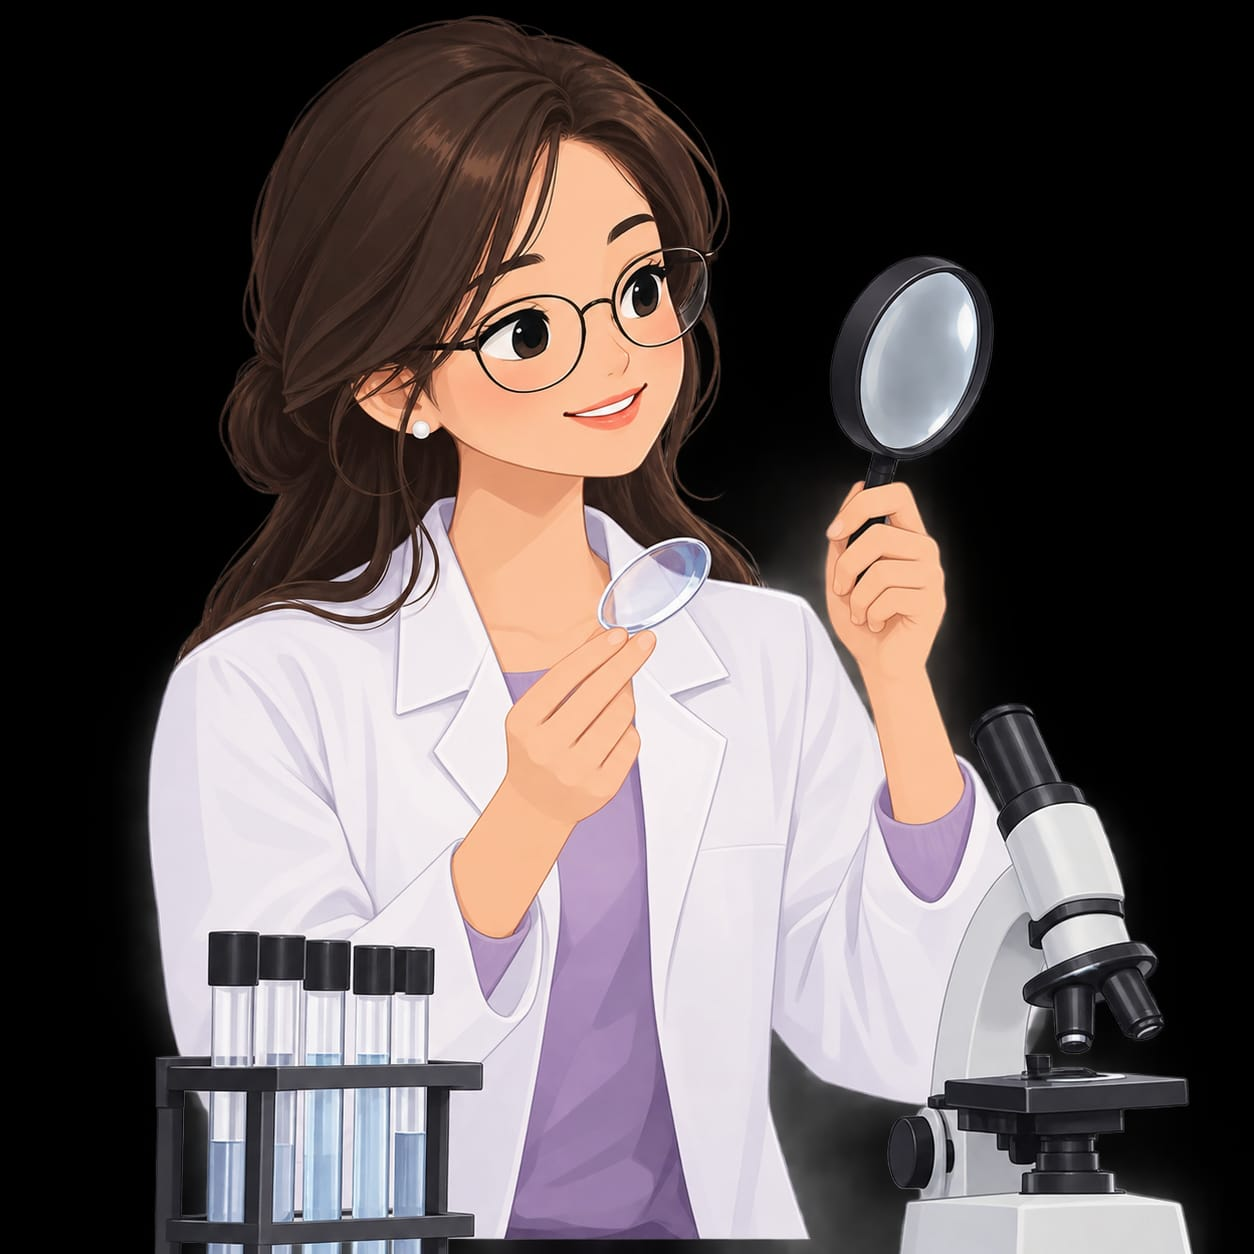
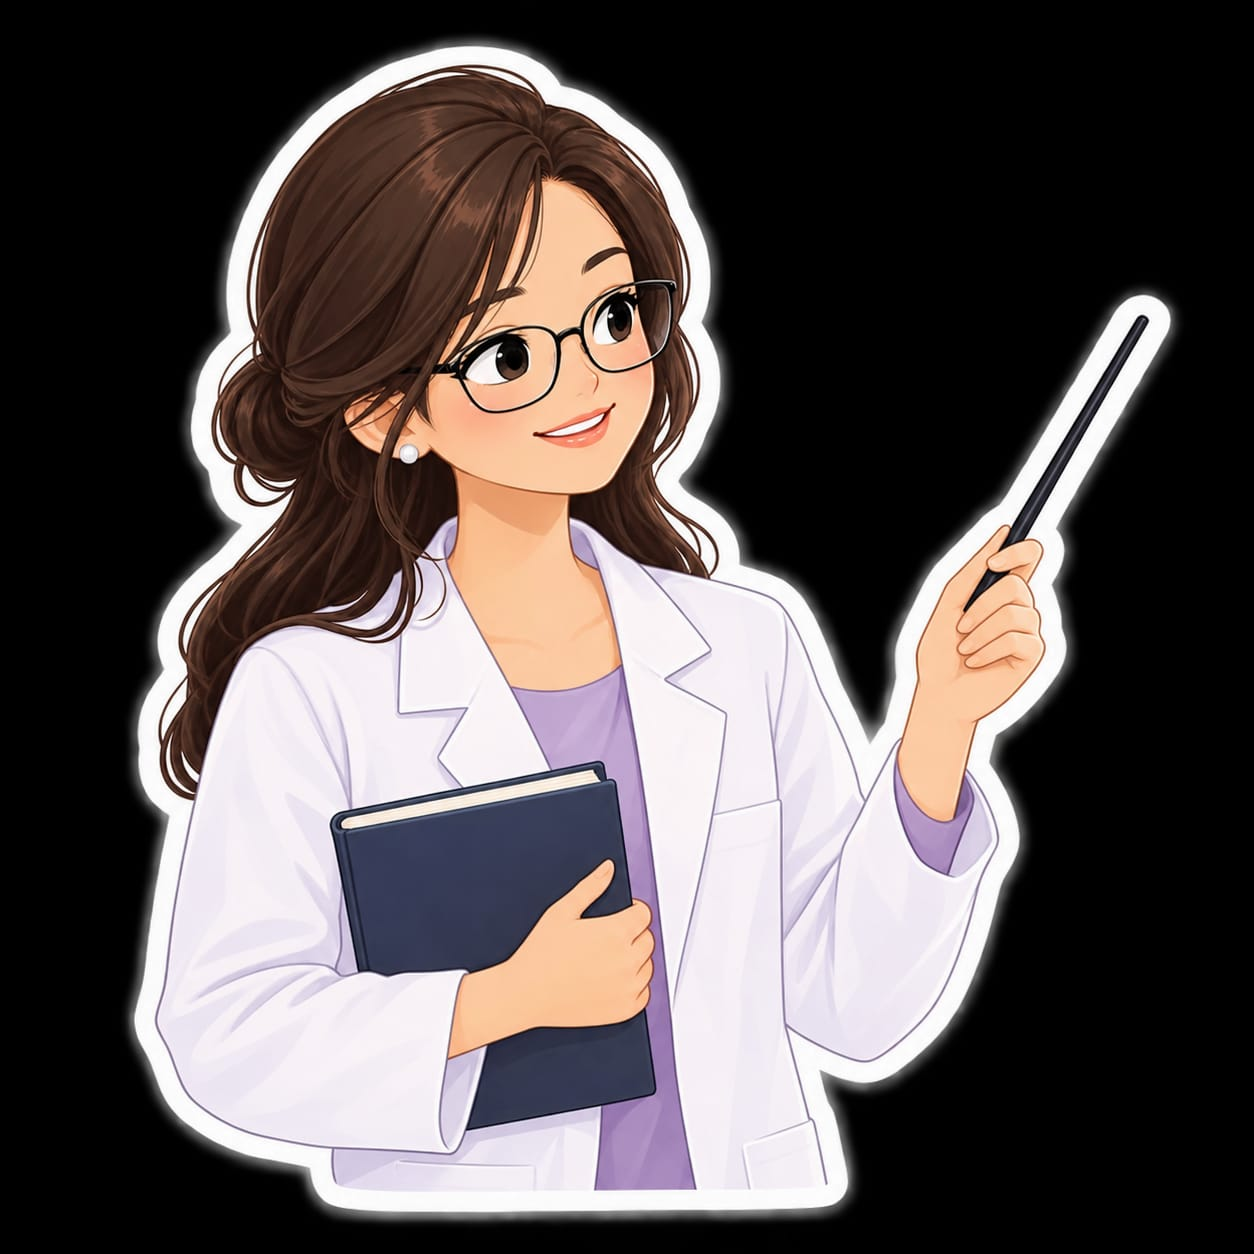
streamlit setup + HomeScreen

diff --git a/src/screens/home_screen.py b/src/screens/home_screen.py
@@ -1,8 +1,8 @@
 
-
 import streamlit as st
 from src.components.header import header_home
 from src.ui.base_layout import style_base_layout, style_background_home
+from src.components.footer import footer_home
 
 def home_screen():    
 
@@ -14,14 +14,15 @@ def home_screen():
     with col1:
             st.header("I'm Student")
             st.image("C:/Users/User/Desktop/snapclass/src/screens/student.jpeg",width=120)
-            if st.button('student portal',width='stretch',type='primary'):
+            if st.button('student portal',type='primary',icon=':material/arrow_upward:', icon_position='right'):
                st.session_state['login_type']='student'
                st.rerun
    
     with col2:
         st.header("I'm Teacher")
         st.image("C:/Users/User/Desktop/snapclass/src/screens/teacher.jpeg",width=120)
-        if st.button('teacher portal',width='stretch', type='primary'):
+        if st.button('teacher portal', type='primary',icon=':material/arrow_upward:',icon_position='right'):
              st.session_state['login_type']='teacher'
              st.rerun
 
+    footer_home()         

diff --git a/src/ui/base_layout.py b/src/ui/base_layout.py
@@ -8,6 +8,12 @@ def style_background_home():
         .stApp {
         background: #5865f2 !important
         }
+        .stApp div[data-testid="stColumn"]{
+            beckground-color: #E0E3FF !important;
+            padding:0rem !important;
+            border-radius: 2rem !important;
+            }
+
     </style>
     
     """
@@ -20,7 +26,7 @@ def style_background_dashboard():
         <style>
 
         .stApp {
-        background: #E0E3FF !important
+        background: #E0E3FF !important;
         }
     </style>
     

diff --git a/src/components/header.py b/src/components/header.py
@@ -44,10 +44,10 @@ def header_home():
 
                 .title {{
                     text-align: center;
-                    color: #30EFF;
-                    font-size: 28px;
-                    line-height: 1;
-                    margin-top: 10px;
+                    color: #30E3FF;
+                    font-size: 20px;
+                    line-height: 0.5;
+                    margin-top: 5px;
                 }}
             </style>
             """,

diff --git a/app.py b/app.py
@@ -19,10 +19,10 @@ import streamlit as st
 #    margin-top: -50px;
 #}
 #</style>
-#""", unsafe_allow_html=True)*/
+#""", unsafe_allow_html=True)
 
 from src.components.header import header_home
-
+from src.components.footer import footer_home
 from src.screens.home_screen import home_screen
 from src.screens.teacher_screen import teacher_screen
 from src.screens.student_screen import student_screen

diff --git a/src/components/footer.py b/src/components/footer.py
@@ -1,0 +1,12 @@
+
+import streamlit as st
+import base64
+
+
+def footer_home():
+
+    st.markdown(f"""
+    <div style = "margin-top:2rem; display:Flex; gap:6px; justify-content:center; items-align:center">
+    <p>create with ❤ by Anamika</p>
+    </div>
+        """, unsafe_allow_html=True)
